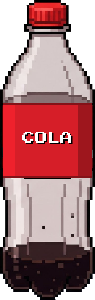
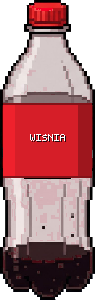
Bottle flip: bottles renamed (water, cherry, lemon, apple, sparkling water) with English label twins
Claude-Session: https://claude.ai/code/session_01Y9XNosS9qXxorLv9Jh2D4n

diff --git a/index.html b/index.html
@@ -703,7 +703,7 @@
   body.playing #mute { display: block; } body.playing.touch #mute { top: max(10px, env(safe-area-inset-top)); right: calc(max(10px, env(safe-area-inset-right)) + 156px); bottom: auto; }
   @media (max-width: 700px) { #score .tn { font-size: 16px; } #score .num { font-size: 24px; min-width: 50px; } #score .clockp { font-size: 18px; } #score .crest { width: 26px; height: 30px; } #score .plate, #score .clockp { height: 38px; } }
 </style>
-<script src="./lang.js?v=12"></script>
+<script src="./lang.js?v=13"></script>
 <script type="importmap">{ "imports": { "three": "https://cdn.jsdelivr.net/npm/three@0.187.0/build/three.module.js" } }</script>
 <script>
   // music volume for every track (match, locker room, penalties, keepy-uppy): 100 / 60 / 30 / off, remembered
@@ -766,7 +766,7 @@
   <p class="q">Znalazłeś ukrytą grę w paluchy! Chcesz zagrać?</p>
   <div class="yn"><button class="big grn" id="palyes">TAK</button><button class="big red2" id="palno">NIE</button></div></div></div>
 <div class="setov" id="flippick" hidden><div class="setp" role="dialog" aria-label="Wybierz butelkę"><h2>WYBIERZ BUTELKĘ <button class="x" id="flipx" aria-label="Zamknij">X</button></h2>
-  <div class="flipgrid"><button data-b="woda"><img src="flip_woda.png" alt="Woda"></button><button data-b="cola"><img src="flip_cola.png" alt="Cola"></button><button data-b="cytryna"><img src="flip_cytryna.png" alt="Cytryna"></button><button data-b="truskawka"><img src="flip_truskawka.png" alt="Truskawka"></button><button data-b="fiolet"><img src="flip_fiolet.png" alt="Duża woda"></button></div></div></div>
+  <div class="flipgrid"><button data-b="woda"><img src="flip_woda.png?v=2" alt="Woda"></button><button data-b="cola"><img src="flip_cola.png?v=2" alt="Wiśnia"></button><button data-b="cytryna"><img src="flip_cytryna.png?v=2" alt="Cytryna"></button><button data-b="truskawka"><img src="flip_truskawka.png?v=2" alt="Jabłko"></button><button data-b="fiolet"><img src="flip_fiolet.png?v=2" alt="Woda gazowana"></button></div></div></div>
 <div class="setov" id="arenapick" hidden><div class="setp" role="dialog" aria-label="Wybierz boisko"><h2>WYBIERZ BOISKO <button class="x" id="arenax" aria-label="Zamknij">X</button></h2>
   <div class="abar"><button id="tabTour" class="on">TURNIEJ</button><button id="tabFree">DOWOLNY MECZ</button><span class="sp"></span>
     <span class="lv" id="lvbtns"><button data-l="0">ŁATWY</button><button data-l="1">NORMALNY</button><button data-l="2">MISTRZ</button></span>
@@ -849,7 +849,7 @@
   <button class="hot" id="sgo" style="left:72.6%;top:78%;width:25.6%;height:17.5%" aria-label="Graj"></button>
   <button class="hot" id="sset" aria-label="Ustawienia"></button>
   <div class="stitle">WYBIERZ KAPITANA</div><button class="sshop" id="sshop">SKLEP</button><button class="srank" id="srank" aria-label="Ranking" title="Ranking"><svg viewBox="0 0 16 16" shape-rendering="crispEdges"><path fill="#1a1030" d="M3 1h10v1h2v4h-1v1h-1v1h-1v1h-1v2h1v1h1v3H3v-3h1v-1h1V9H4V8H3V7H2V6H1V2h2z"/><path fill="#ffd21a" d="M4 2h8v5h-1v1h-1v1H6V8H5V7H4zM2 3h1v2H2zM13 3h1v2h-1zM7 10h2v1H7zM5 12h6v2H5z"/><path fill="#fff6b0" d="M5 3h1v3H5z"/><path fill="#c88a00" d="M10 3h1v4h-1z"/></svg></button><button class="sroom" id="sroom" aria-label="Pokój gracza"></button><div class="scoin" id="coinL">0</div><button class="scoinhit" id="coinHit" aria-label="Monety"></button><button class="hot" id="sworks" aria-label="Warsztat"></button><img id="scup" src="szatnia_cup.png?v=1" alt=""><button class="hot" id="strophy" aria-label="Trofea"></button></div></div>
-<div id="modes" hidden><div class="side90 l"></div><div class="side90 r"></div><div class="sbg tb"></div><div class="tbox2"><img src="tablica.jpg" alt=""><button class="hbottle" id="hbottle" aria-label="Butelka"><img src="flip_woda.png" alt=""></button><button class="hsocks" id="hsocks" aria-label="Paluchy"><img src="paluchy_buty.png?v=1" alt=""></button>
+<div id="modes" hidden><div class="side90 l"></div><div class="side90 r"></div><div class="sbg tb"></div><div class="tbox2"><img src="tablica.jpg" alt=""><button class="hbottle" id="hbottle" aria-label="Butelka"><img src="flip_woda.png?v=2" alt="Woda"></button><button class="hsocks" id="hsocks" aria-label="Paluchy"><img src="paluchy_buty.png?v=1" alt=""></button>
   <small id="mq">CO ROBIMY?</small>
   <div class="mrow"><button class="mb" data-m="match"><b><img class="pxi" src="ico_match.png" alt=""></b>MECZ<em>Pixels kontra Fioletowi</em></button><button class="mb" data-m="karne"><b><img class="pxi" src="ico_karne.png" alt=""></b>KARNE<em>seria rzutów karnych</em></button><button class="mb" data-m="kapki"><b><img class="pxi" src="ico_kapki.png" alt=""></b>KAPKI<em>dotykaj kółek, żongluj piłką</em></button><button class="mb" data-m="but"><b><img class="pxi" src="ico_but.png" alt=""></b>BUT<em>zawiąż sznurówki</em></button><button class="mb" data-m="kapsle"><b><img class="pxi" src="ico_kapsle.png" alt=""></b>KAPSLE<em>wyścig kapsli po torze</em></button><button class="mb" data-m="bieg"><b><img class="pxi" src="ico_bieg.png" alt=""></b>BIEG<em>wyścig dookoła boiska</em></button></div>
   <button class="ibtn mback" data-m="back">◀ SZATNIA</button></div></div></div>
@@ -1626,7 +1626,7 @@
 <script src="./pen.js?v=6"></script>
 <script src="./lace.js"></script>
 <script src="./caps.js"></script>
-<script src="./flip.js?v=5"></script>
+<script src="./flip.js?v=6"></script>
 <script src="./paluchy.js?v=7"></script>
 <script src="./bieg.js?v=1795689651"></script>
 <script type="module" src="./game.js?v=6"></script>

diff --git a/lang.js b/lang.js
@@ -129,7 +129,7 @@
   const C = CanvasRenderingContext2D.prototype;
   for (const k of ['fillText', 'strokeText', 'measureText']) { const f = C[k]; C[k] = function (s, ...a) { return f.call(this, tr(String(s)), ...a); }; }
   // pictures with Polish words on them
-  const IMG = { 'tablica.jpg': 'tablica_en.jpg', 'szatnia_base.jpg?v=2': 'szatnia_base_en.jpg?v=2', 'szatnia_base.jpg': 'szatnia_base_en.jpg?v=2' };
+  const IMG = { 'flip_woda.png?v=2': 'flip_woda_en.png?v=2', 'flip_cola.png?v=2': 'flip_cola_en.png?v=2', 'flip_cytryna.png?v=2': 'flip_cytryna_en.png?v=2', 'flip_truskawka.png?v=2': 'flip_truskawka_en.png?v=2', 'flip_fiolet.png?v=2': 'flip_fiolet_en.png?v=2', 'tablica.jpg': 'tablica_en.jpg', 'szatnia_base.jpg?v=2': 'szatnia_base_en.jpg?v=2', 'szatnia_base.jpg': 'szatnia_base_en.jpg?v=2' };
   const css = document.createElement('style'); css.textContent = '#modes .sbg.tb { background-image: url(tablica_en.jpg) !important; } #trofea .sbg { background-image: url(trofea_bg_en.jpg?v=3) !important; }'; document.head.appendChild(css);
   // page text: translated as it appears and every time it changes
   const fix = (n) => {

diff --git a/flip.js b/flip.js
@@ -16,7 +16,7 @@
   const FLOOR = 985, LX = 1180;             // where the bottle lands, in picture units
   const BOT_H = 320;                        // bottle height in picture units
   const G = 2700;
-  const IMG = {}; const load = (k) => { if (!IMG[k]) { IMG[k] = new Image(); IMG[k].src = `flip_${k}.png`; } return IMG[k]; };
+  const IMG = {}; const load = (k) => { const src = `flip_${k}${window.LANG === 'en' ? '_en' : ''}.png?v=2`; if (!IMG[k] || !IMG[k].src.endsWith(src)) { IMG[k] = new Image(); IMG[k].src = src; } return IMG[k]; };   // labels have words: English twins
   ['woda', 'cola', 'cytryna', 'truskawka', 'fiolet'].forEach(load);
 
   // ---- sound ----
